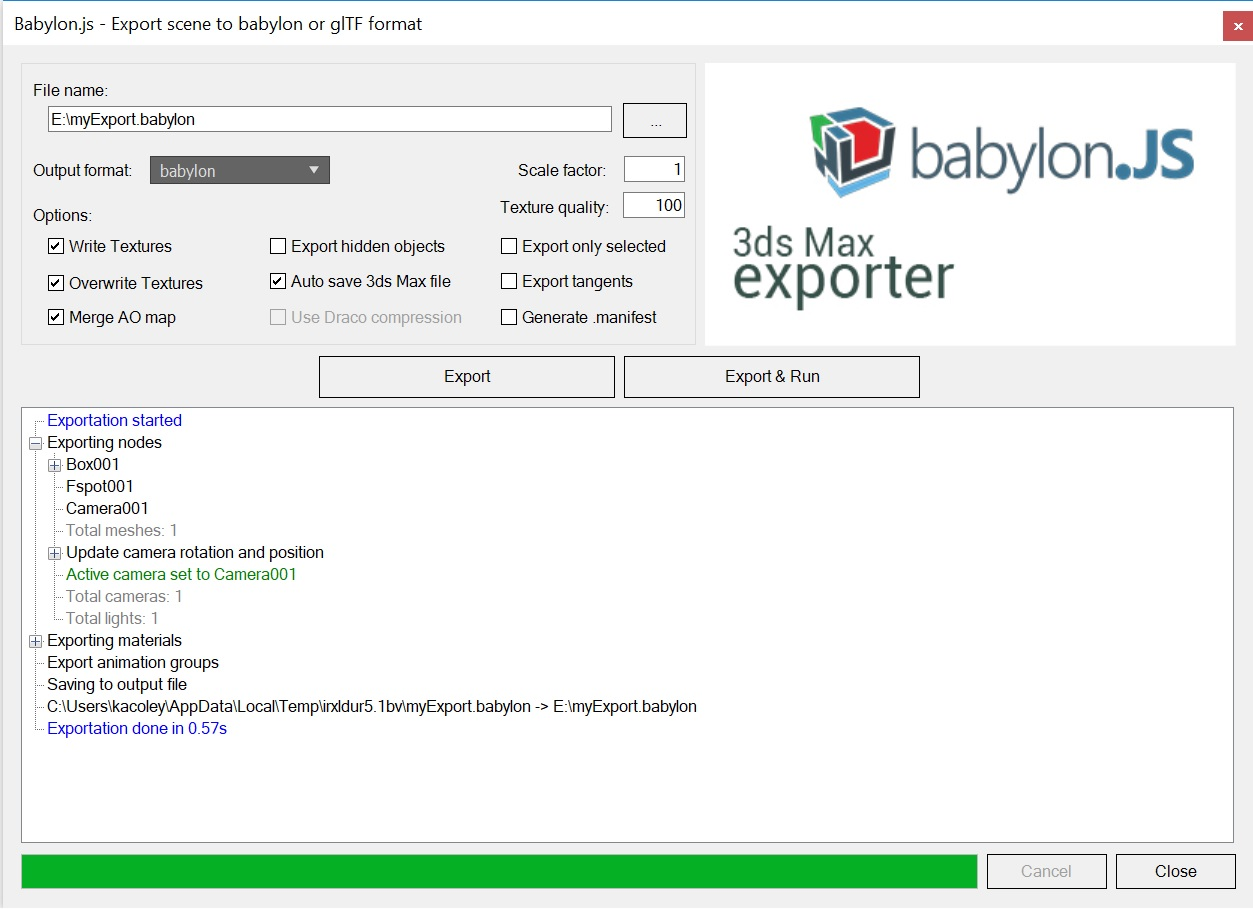
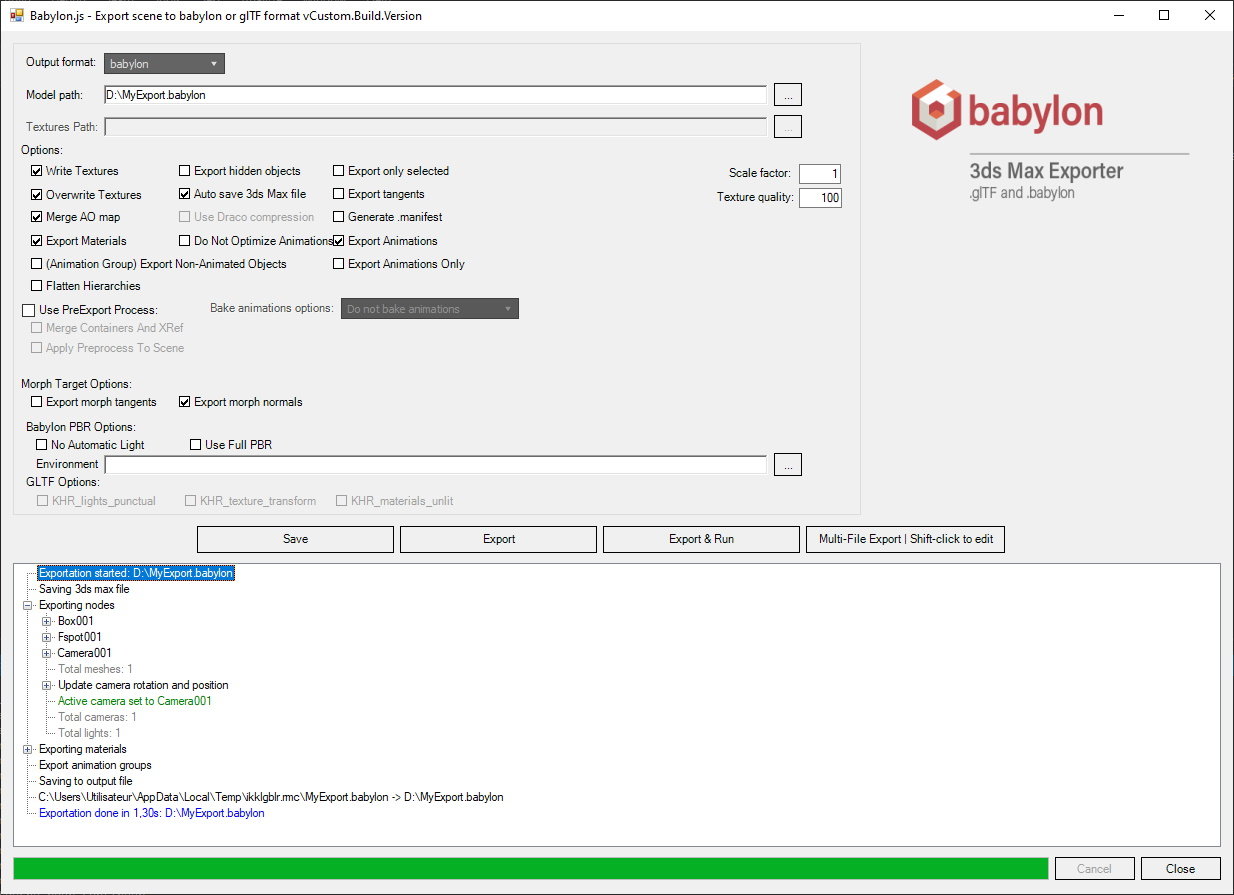
[3dsMax] Export animations only

diff --git a/content/resources/Exporter/3DSMax.md b/content/resources/Exporter/3DSMax.md
@@ -166,6 +166,11 @@ The [.NET Framework Redistributable](https://docs.microsoft.com/en-us/dotnet/fra
 
 * Hierarchies are exported
 
+* _Animations_
+    * Animation groups
+    * Export without animations
+    * Export animations only
+
 (*): Through custom UI
 
 ## Scene properties 
@@ -248,6 +253,10 @@ The _write textures_ option enables writing the textures to the output directory
 The _overwrite textures_ option enables overwriting existing textures in the output directory.
 
 The _Use Draco comression_ option is only available for gltf and glb output format. More detail [here](/resources/3DSMax_to_glTF#draco-compression).
+
+The _Export Animations_ option enables you to export only the geometry and materials.
+
+The _Export Animations Only_ option enables you to export only animations. The _Export Animations_ option must be checked as well.
 
 The _Export_ button should be used to create the Babylon file representing your scene. The _Export & Run_ button will also create the Babylon file, but will also launch your default browser and run the newly made Babylon file. This button is very useful if you just want to test the render of your scene in Babylon.js. 
 

diff --git a/content/resources/Exporter/3DSMax_to_glTF.md b/content/resources/Exporter/3DSMax_to_glTF.md
@@ -58,6 +58,10 @@ Since the plugin first exports to babylon then converts it to glTF, glTF feature
     * Image format conversion to jpg / png
     * Texture transform
 
+* _Animations_
+    * Export without animations
+    * Export animations only
+
 # Conversion Standard to PBR materials
 
 3DS MAX Standard materials are converted to PBR materials based on their diffuse, specular, opacity and glossiness.
